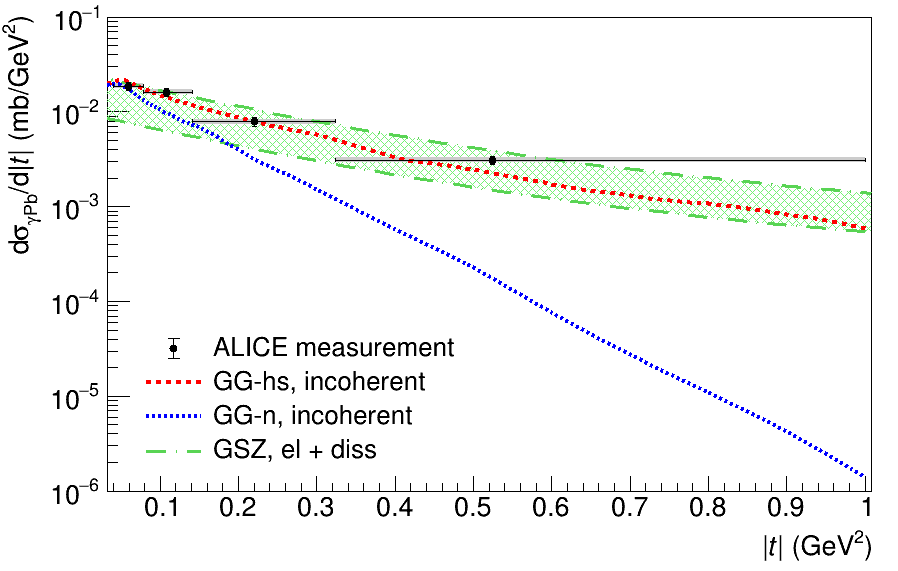
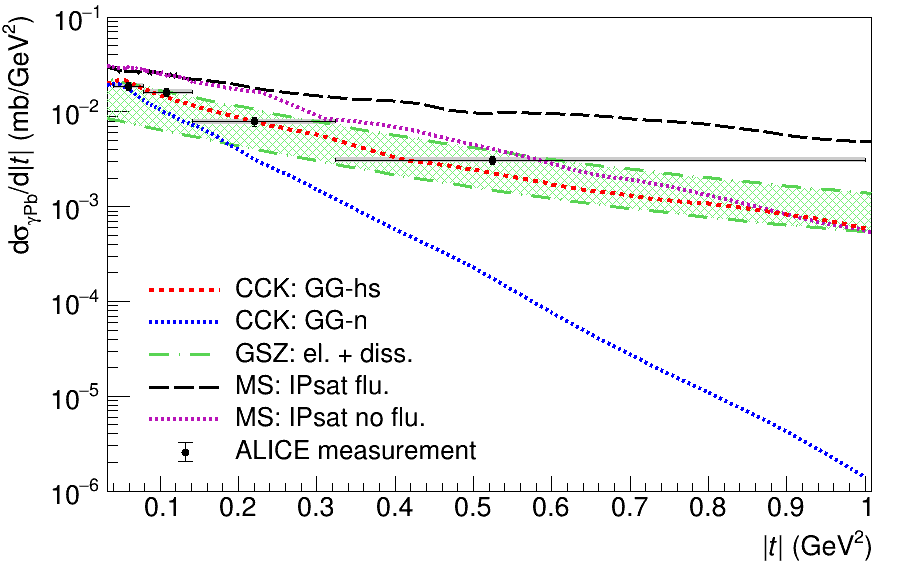
Update no.3 14-11-2021

diff --git a/PhenoPredictions.c b/PhenoPredictions.c
@@ -25,7 +25,7 @@ Int_t iFeedDown = 1;
 // 1 = feed-down from FeedDown.c (FeedDown_debug.c)
 Bool_t plot1 = kTRUE;
 Bool_t plot2 = kTRUE;
-Bool_t plot3 = kFALSE;
+Bool_t plot3 = kTRUE;
 // 1 = HS model
 // 2 = Guzey's model
 // 3 = Heikki's model
@@ -168,9 +168,9 @@ void PhenoPredictions()
     gr3_fluct->SetLineStyle(9);
     gr3_fluct->SetLineColor(1);
     gr3_fluct->SetLineWidth(3);
-    gr3_noflu->SetLineStyle(8);
-    gr3_noflu->SetLineColor(91);
-    gr3_noflu->SetLineWidth(3);
+    gr3_noflu->SetLineStyle(2);
+    gr3_noflu->SetLineColor(222);
+    gr3_noflu->SetLineWidth(4);
 
     // TStyle settings
     gStyle->SetOptStat(0);
@@ -206,25 +206,29 @@ void PhenoPredictions()
         gr2_min->Draw("L SAME");
         gr2_max->Draw("L SAME");
     }    
-    if(plot1){
-        gr1_inc_hs->Draw("CX SAME");
-        gr1_inc_n->Draw("CX SAME");
-    }
     if(plot3){
         gr3_fluct->Draw("L SAME");
         gr3_noflu->Draw("L SAME");
     }
+    if(plot1){
+        gr1_inc_hs->Draw("CX SAME");
+        gr1_inc_n->Draw("CX SAME");
+    }
     grData_stat->Draw("P SAME");
     // Legend
-    TLegend *l = new TLegend(0.15,0.18,0.5,0.42);
-    l->AddEntry(grData_stat,"ALICE measurement","EP");
+    TLegend *l = new TLegend(0.15,0.18,0.6,0.52);
     if(plot1){
-        l->AddEntry(gr1_inc_hs,"GG-hs, incoherent","L");
-        l->AddEntry(gr1_inc_n,"GG-n, incoherent","L");
+        l->AddEntry(gr1_inc_hs,"CCK: GG-hs","L");
+        l->AddEntry(gr1_inc_n,"CCK: GG-n","L");
     }
     if(plot2){
-        l->AddEntry(gr2_min,"GSZ, el + diss","L");
+        l->AddEntry(gr2_min,"GSZ: el. + diss.","L");
     }
+    if(plot3){
+        l->AddEntry(gr3_fluct,"MS: IPsat flu.","L");
+        l->AddEntry(gr3_noflu,"MS: IPsat no flu.","L");
+    }
+    l->AddEntry(grData_stat,"ALICE measurement","EP");
     l->SetTextSize(0.048);
     l->SetBorderSize(0); // no border
     l->SetFillStyle(0);  // legend is transparent

diff --git a/AnalysisManager.h b/AnalysisManager.h
@@ -8,7 +8,7 @@
 //################################## PT BINNING ####################################
 //##################################################################################
 
-const Int_t nPtBins = 5;
+const Int_t nPtBins = 4;
 Int_t iMethodBinning = 3;
 
 Double_t *ptBoundaries = NULL;
